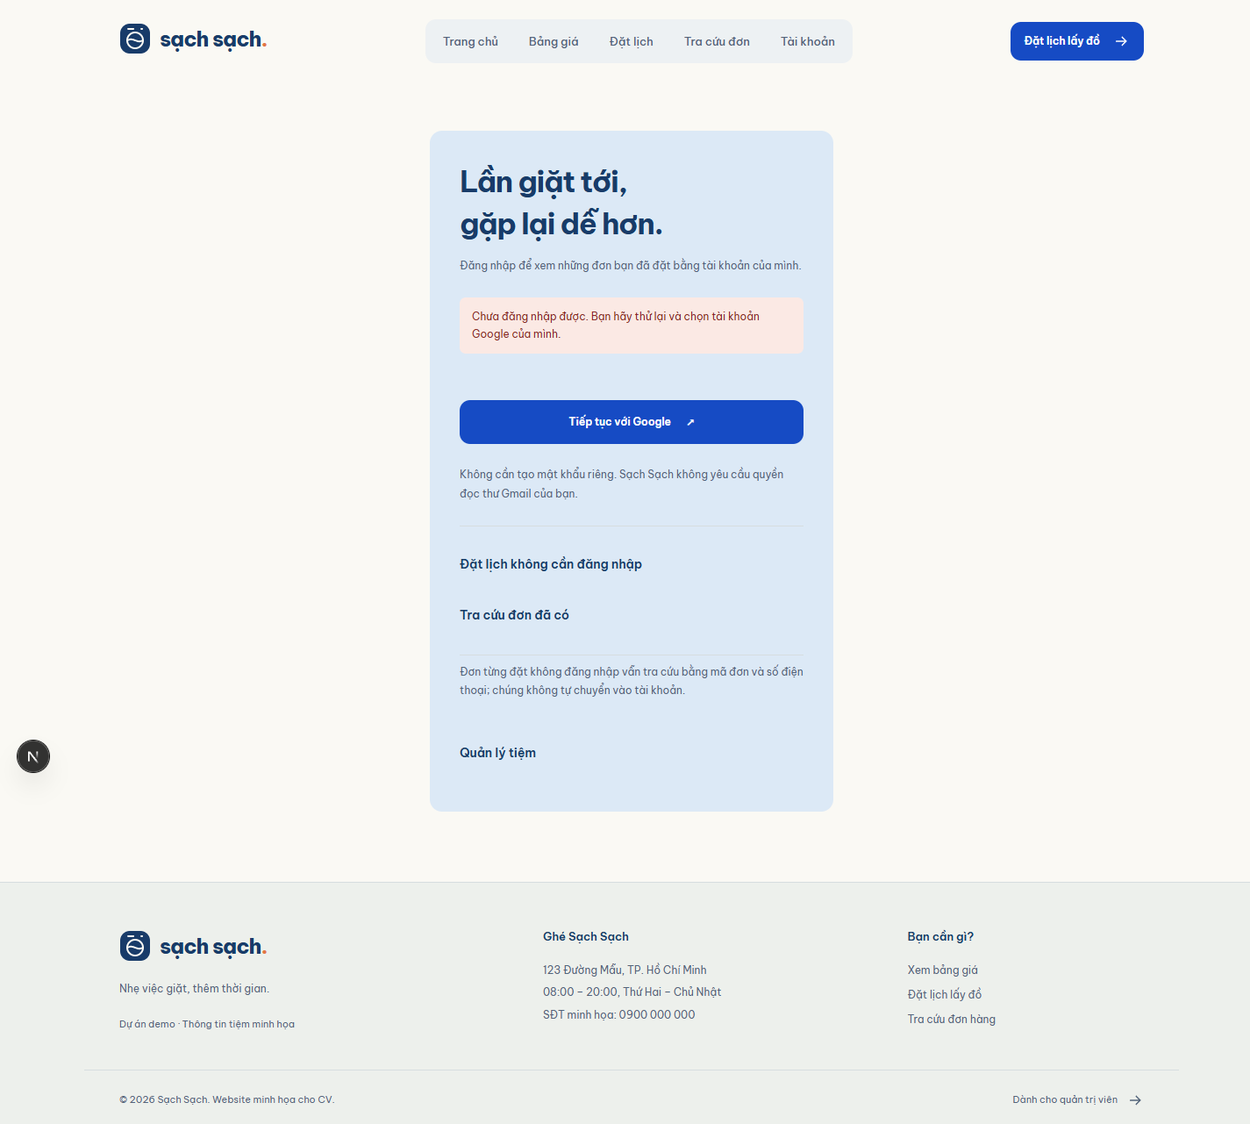
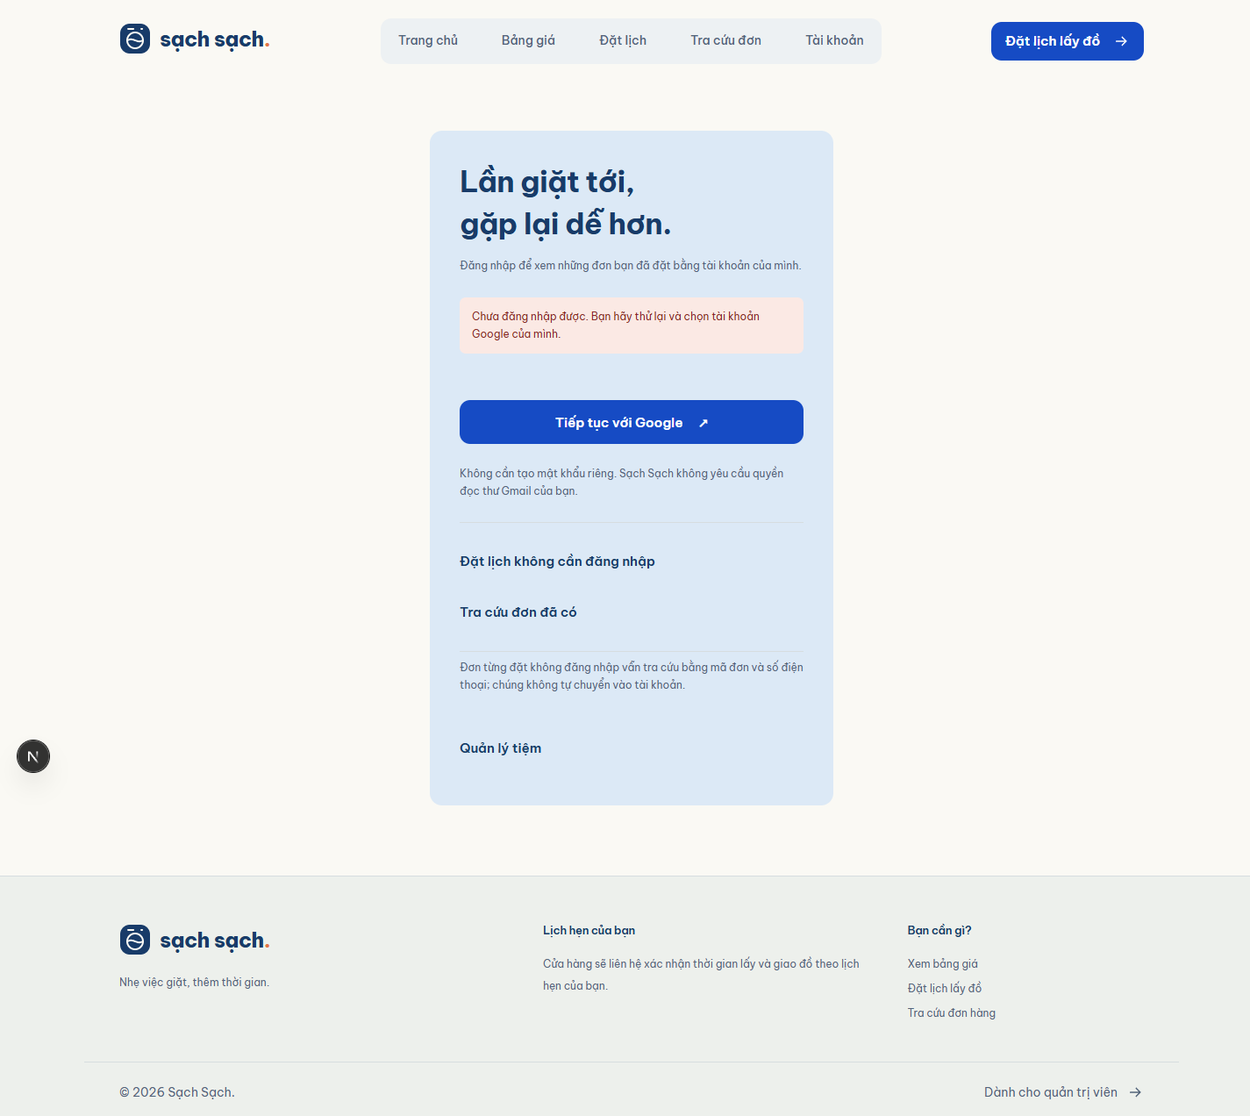
style: refine shop typography and customer-facing copy

diff --git a/components/demo-workspace.tsx b/components/demo-workspace.tsx
@@ -12,10 +12,10 @@ export function DemoWorkspace({data}:{data:DemoWorkspaceData}){
  const customerMessage=<label>Tin nhắn mô phỏng do khách gửi<textarea name="customer_message" minLength={5} maxLength={2000} required placeholder="Ghi nội dung bằng chứng mô phỏng; không dùng dữ liệu khách thật."/></label>;
  const targets=bags.flatMap(b=>[{id:b.id,label:b.tag_id,kind:'bag'},...b.items.map(i=>({id:i.id,label:i.tag_id,kind:'item'}))]);
  return <div className="demo-workspace">
-  <section className="demo-notice"><h2>Quy trình portfolio · mô phỏng</h2><p>Mọi đồng ý và số tiền ở đây là dữ liệu demo. Một nhãn cho mỗi túi; chỉ món giá trị cao/có vấn đề được gắn nhãn riêng. Không chứng minh được từng áo không gắn nhãn.</p><p>Phiên đơn {order.revision} · {data.eligible?'Báo giá hiện tại đã được đồng ý':'Cần đồng ý báo giá hiện tại'}</p></section>
+  <section className="demo-notice"><h2>Chi tiết xử lý đơn</h2><p>Các đồng ý và số tiền ở đây là dữ liệu mô phỏng. Một nhãn cho mỗi túi; chỉ món giá trị cao/có vấn đề được gắn nhãn riêng. Không chứng minh được từng áo không gắn nhãn.</p><p>Phiên đơn {order.revision} · {data.eligible?'Báo giá hiện tại đã được đồng ý':'Cần đồng ý báo giá hiện tại'}</p></section>
   <section><h2>Báo giá và cân thực tế</h2>
-   <div className="demo-scroll" tabIndex={0} role="region" aria-label="Lịch sử báo giá"><table><caption>Các phiên bản đã phát hành giữ nguyên nội dung.</caption><thead><tr><th>Phiên bản</th><th>Trạng thái</th><th>Đồng ý</th><th>Số tiền</th><th>Mức tối đa</th></tr></thead><tbody>{quotes.map(q=><tr key={q.id}><td>v{q.version}{q.id===order.active_quote_id?' · hiện tại':''}</td><td>{q.state}</td><td>{q.approvals.some(a=>a.verification_state==='verified'||a.verification_state==='declared')?'Đã ghi đồng ý':'Chờ đồng ý'}{q.approvals.some(a=>a.verification_state==='unverified')&&<strong className="demo-warning">Chưa xác minh: ghi chú điện thoại không mở quyền xử lý.</strong>}</td><td>{formatVND(q.base_total)}</td><td>{formatVND(q.max_weight_total)}</td></tr>)}</tbody></table></div>
-   <p className="field-help">Dung sai v0 được tính riêng từng dòng kg gốc: ±10% hoặc ±0,30 kg, lấy mức lớn hơn. v1 trở đi là số lượng chính xác, không cộng dồn dung sai.</p>
+   <div className="demo-scroll" tabIndex={0} role="region" aria-label="Lịch sử báo giá"><table><caption>Các phiên bản đã phát hành giữ nguyên nội dung.</caption><thead><tr><th>Phiên bản</th><th>Trạng thái</th><th>Đồng ý</th><th>Số tiền</th><th>Mức tối đa</th></tr></thead><tbody>{quotes.map(q=><tr key={q.id}><td>Lần {q.version + 1}{q.id===order.active_quote_id?' · hiện tại':''}</td><td>{q.state}</td><td>{q.approvals.some(a=>a.verification_state==='verified'||a.verification_state==='declared')?'Đã ghi đồng ý':'Chờ đồng ý'}{q.approvals.some(a=>a.verification_state==='unverified')&&<strong className="demo-warning">Chưa xác minh: ghi chú điện thoại không mở quyền xử lý.</strong>}</td><td>{formatVND(q.base_total)}</td><td>{formatVND(q.max_weight_total)}</td></tr>)}</tbody></table></div>
+   <p className="field-help">Dung sai của báo giá dự kiến được tính riêng từng dòng kg gốc: ±10% hoặc ±0,30 kg, lấy mức lớn hơn. Các báo giá điều chỉnh là số lượng chính xác, không cộng dồn dung sai.</p>
    {current&&order.status!=='pending'&&order.status!=='cancelled'&&<div className="demo-columns">
     <div><h3>Ghi nhận số lượng thực tế</h3><DemoActionForm {...props} action="measure" label="Lưu cân thực tế">{quantities()}</DemoActionForm></div>
     <details><summary>Phát hành báo giá thay thế hoặc bổ sung</summary><DemoActionForm {...props} action="issue_quote" label="Phát hành phiên bản mới">{quantities(true)}<div className="field-grid">{['delivery_fee','surcharge','discount'].map((field,n)=><label key={field}>{['Phí giao','Phụ thu','Giảm giá'][n]} (VND)<input type="number" name={field} defaultValue={0} min="0" step="1" required/></label>)}</div><p>Phiên bản mới làm mất hiệu lực xử lý của phiên cũ. Sau khi đã xử lý, đây là báo giá bổ sung do quản trị phát hành.</p></DemoActionForm></details>

diff --git a/components/demo-money.tsx b/components/demo-money.tsx
@@ -18,7 +18,7 @@ export function DemoMoney({data}:{data:DemoWorkspaceData}){
  <details><summary>Hoàn hoặc đảo bút toán mô phỏng</summary>{receipts.length>0&&<DemoActionForm {...props} action="refund" label="Ghi khoản hoàn mô phỏng">{amount}{method}<label>Khoản thu tham chiếu<select name="original_id">{receipts.map(e=><option value={e.id} key={e.id}>{e.id.slice(0,8)} · {formatVND(e.amount)}</option>)}</select></label><label>Lý do hoàn<input name="reason" minLength={5} required/></label></DemoActionForm>}{originals.length>0&&<DemoActionForm {...props} action="reverse" label="Đảo một bút toán gốc"><label>Bút toán cần đảo<select name="original_id">{originals.map(e=><option value={e.id} key={e.id}>{kind[e.kind]} · {e.id.slice(0,8)} · {formatVND(e.amount)}</option>)}</select></label><label>Lý do sửa sai<input name="reason" minLength={5} required/></label></DemoActionForm>}</details></div>}
  {order.status==='ready'&&order.qc_quote_id===order.active_quote_id&&order.work_quote_id===order.active_quote_id&&money.balance!==null&&money.balance>=0&&<div className="demo-handover"><h3>Bàn giao và thu tiền trong một lần lưu</h3><DemoActionForm {...props} action="deliver_collect" label="Giao đồ và thu tiền"><div className="demo-checks">{bags.map(b=><label key={b.id}><input type="checkbox" name="bag_id" value={b.id}/> Túi {b.tag_id}</label>)}{bags.flatMap(b=>b.items).map(i=><label key={i.id}><input type="checkbox" name="flagged_id" value={i.id}/> Món riêng {i.tag_id}</label>)}</div><label>Tiền mặt mô phỏng giữ lại (VND)<input type="number" name="amount" min="0" step="1" defaultValue={money.balance} required/></label><label>Bằng chứng người nhận · mô phỏng<textarea name="recipient_evidence" minLength={5} maxLength={2000} required placeholder="Ghi xác nhận nhận túi của người nhận giả lập."/></label><p>Chỉ hoàn tất khi đối chiếu đủ và số dư bằng 0. Mất kết nối thì chờ xác nhận hoặc thử lại cùng thao tác; không coi như đã giao.</p></DemoActionForm></div>}
  {order.status==='ready'&&money.status==='refund_due'&&<p role="status" className="demo-warning">Cần hoàn tiền thừa trước khi giao đồ.</p>}
- {['pending','picked_up'].includes(order.status)&&<details><summary>Hủy dịch vụ demo</summary><DemoActionForm {...props} action="cancel" label="Xác nhận hủy dịch vụ"><label>Lý do hủy<textarea name="reason" minLength={5} required/></label>{order.status==='picked_up'&&<label>Phương án trả túi đồ<textarea name="return_plan" minLength={5} required/></label>}<p>Hủy dịch vụ không tự tạo khoản hoàn và không đánh dấu túi đã trả.</p></DemoActionForm></details>}
+ {['pending','picked_up'].includes(order.status)&&<details><summary>Hủy dịch vụ</summary><DemoActionForm {...props} action="cancel" label="Xác nhận hủy dịch vụ"><label>Lý do hủy<textarea name="reason" minLength={5} required/></label>{order.status==='picked_up'&&<label>Phương án trả túi đồ<textarea name="return_plan" minLength={5} required/></label>}<p>Hủy dịch vụ không tự tạo khoản hoàn và không đánh dấu túi đã trả.</p></DemoActionForm></details>}
  {order.status==='cancelled'&&bags.some(b=>b.custody_state==='received')&&<p className="demo-warning">Dịch vụ đã hủy nhưng túi vẫn đang giữ. Cần xử lý riêng hồ sơ trả đồ; chưa có bàn giao được xác nhận.</p>}
  <p className="field-help">Số tiền theo thời điểm thu/hoàn khác giá trị đơn theo thời điểm giao. Toàn bộ là minh họa kế toán, không phải xác nhận thanh toán ngân hàng.</p>
  </section>;

diff --git a/components/booking-form.tsx b/components/booking-form.tsx
@@ -86,7 +86,7 @@ export function BookingForm({
       });
       const result = await response.json();
       if (!response.ok) {
-        setError(response.status === 409 ? "Nội dung đã thay đổi so với lần gửi trước. Hãy tải lại để đặt lịch mới." : response.status === 429 ? "Bản demo đã đạt giới hạn đặt lịch. Vui lòng thử lại sau." : "Chưa thể đặt lịch. Vui lòng kiểm tra thông tin rồi thử lại.");
+        setError(response.status === 409 ? "Nội dung đã thay đổi so với lần gửi trước. Hãy tải lại để đặt lịch mới." : response.status === 429 ? "Đã đạt giới hạn đặt lịch. Vui lòng thử lại sau." : "Chưa thể đặt lịch. Vui lòng kiểm tra thông tin rồi thử lại.");
         requestAnimationFrame(() => errorRef.current?.focus());
         return;
       }
@@ -338,8 +338,8 @@ export function BookingForm({
           Chi phí được xác nhận lại theo khối lượng thực tế trước khi xử lý.
         </p>
         <div className="consent-fields">
-          <p><strong>Chỉ dùng dữ liệu giả.</strong> Đơn, báo giá và thanh toán trong bản portfolio đều mô phỏng.</p>
-          <label><input type="checkbox" name="consent" required disabled={busy} /> Tôi đồng ý báo giá v0, chính sách portfolio-v1.2 và dữ liệu demo.</label>
+          <p>Đây là chi phí dự kiến. Cửa hàng xác nhận khối lượng và báo giá trước khi xử lý.</p>
+          <label><input type="checkbox" name="consent" required disabled={busy} /> Tôi đồng ý với báo giá dự kiến và việc cửa hàng liên hệ để xác nhận lịch hẹn.</label>
           <label><input type="checkbox" name="tolerance_consent" checked={toleranceConsent} onChange={e => setToleranceConsent(e.target.checked)} disabled={busy} /> Cho phép cân thực tế trong ±10% hoặc ±0,30 kg, lấy mức lớn hơn cho từng dòng kg gốc.</label>
           <p aria-live="polite">Mức tối đa được đồng ý: <strong>{formatVND(maximum)}</strong>. Không chọn dung sai: mọi thay đổi cân nặng cần báo giá mới.</p>
         </div>

diff --git a/components/demo-financial-report.tsx b/components/demo-financial-report.tsx
@@ -1,5 +1,5 @@
 import {formatVND} from '@/lib/format';
 export type DemoReport={cash_flow:{day:string;amount:number}[];delivered_value:{day:string;amount:number}[];unverified_approvals:number};
 export function DemoFinancialReport({report}:{report:DemoReport}){
- return <section className="demo-notice demo-report"><h2>Báo cáo demo · hai thời điểm khác nhau</h2><p>Tất cả số tiền đều mô phỏng. Ghi chú đồng ý chưa xác minh: <strong>{report.unverified_approvals}</strong>.</p><div className="demo-columns"><div><h3>Thu / hoàn theo ngày phát sinh</h3>{report.cash_flow.length?<ul className="demo-inventory">{report.cash_flow.map(r=><li key={r.day}>{r.day} · {formatVND(r.amount)}</li>)}</ul>:<p>Chưa có tiền mô phỏng.</p>}</div><div><h3>Giá trị đơn theo ngày bàn giao</h3>{report.delivered_value.length?<ul className="demo-inventory">{report.delivered_value.map(r=><li key={r.day}>{r.day} · {formatVND(r.amount)}</li>)}</ul>:<p>Chưa có bàn giao.</p>}</div></div></section>;
+ return <section className="demo-notice demo-report"><h2>Thu chi và giá trị đơn</h2><p>Tất cả số tiền đều mô phỏng. Ghi chú đồng ý chưa xác minh: <strong>{report.unverified_approvals}</strong>.</p><div className="demo-columns"><div><h3>Thu / hoàn theo ngày phát sinh</h3>{report.cash_flow.length?<ul className="demo-inventory">{report.cash_flow.map(r=><li key={r.day}>{r.day} · {formatVND(r.amount)}</li>)}</ul>:<p>Chưa có tiền mô phỏng.</p>}</div><div><h3>Giá trị đơn theo ngày bàn giao</h3>{report.delivered_value.length?<ul className="demo-inventory">{report.delivered_value.map(r=><li key={r.day}>{r.day} · {formatVND(r.amount)}</li>)}</ul>:<p>Chưa có bàn giao.</p>}</div></div></section>;
 }

diff --git a/app/layout.tsx b/app/layout.tsx
@@ -21,7 +21,7 @@ export const metadata: Metadata = {
     template: "%s | Sạch Sạch",
   },
   description:
-    "Demo dịch vụ giặt sấy, giặt giày, mền chăn, ủi đồ, sửa đồ và giặt gấu bông. Đặt lịch lấy đồ không cần tài khoản.",
+    "Dịch vụ giặt sấy, giặt giày, mền chăn, ủi đồ, sửa đồ và giặt gấu bông. Đặt lịch lấy đồ và theo dõi đơn cùng Sạch Sạch.",
 };
 export default function RootLayout({
   children,
@@ -43,18 +43,11 @@ export default function RootLayout({
                 <Brand />
               </Link>
               <p>Nhẹ việc giặt, thêm thời gian.</p>
-              <span className="demo-label">
-                Dự án demo · Thông tin tiệm minh họa
-              </span>
             </div>
             <div>
-              <h3>Ghé Sạch Sạch</h3>
+              <h3>Lịch hẹn của bạn</h3>
               <p>
-                123 Đường Mẫu, TP. Hồ Chí Minh
-                <br />
-                08:00 – 20:00, Thứ Hai – Chủ Nhật
-                <br />
-                SĐT minh họa: 0900 000 000
+                Cửa hàng sẽ liên hệ xác nhận thời gian lấy và giao đồ theo lịch hẹn của bạn.
               </p>
             </div>
             <div>
@@ -65,7 +58,7 @@ export default function RootLayout({
             </div>
           </div>
           <div className="container footer-bottom">
-            <span>© 2026 Sạch Sạch. Website minh họa cho CV.</span>
+            <span>© 2026 Sạch Sạch.</span>
             <Link href="/admin">
               Dành cho quản trị viên <Arrow />
             </Link>

diff --git a/components/bank-transfer.tsx b/components/bank-transfer.tsx
@@ -6,7 +6,7 @@ import { formatVND } from "@/lib/format";
 
 // Public receiving details supplied by the user with the QR image.
 const account = "38606688";
-const recipient = "CONG TY TNHH THUONG MAI DICH VU VAN TAI AN LINH";
+const recipient = "Nguyễn Thị Mai";
 const qr = "/payments/techcombank-qr.png";
 
 export function BankTransfer({ amount, orderCode }: { amount: number; orderCode?: string }) {
@@ -29,7 +29,7 @@ export function BankTransfer({ amount, orderCode }: { amount: number; orderCode?
         <h3 id={heading}>Chuyển khoản Techcombank</h3>
         <span>Đối soát thủ công</span>
       </header>
-      <p className="bank-transfer-demo">Bản portfolio đang mô phỏng — không chuyển tiền thật.</p>
+      <p className="bank-transfer-demo">Chỉ thanh toán sau khi cửa hàng xác nhận báo giá và tài khoản nhận.</p>
       <div className="bank-transfer-layout">
         <div className="bank-transfer-image">
           <div className="bank-transfer-qr-frame">
@@ -39,7 +39,7 @@ export function BankTransfer({ amount, orderCode }: { amount: number; orderCode?
         </div>
         <div className="bank-transfer-info">
           <dl>
-            <div><dt>Người nhận theo QR</dt><dd className="bank-transfer-recipient">{recipient}</dd></div>
+            <div><dt>Tên người nhận</dt><dd className="bank-transfer-recipient">{recipient}</dd></div>
             <div><dt>Số tài khoản</dt><dd className="bank-transfer-account">{account}</dd></div>
           </dl>
           <button className="bank-transfer-copy" type="button" data-copy="account" onClick={() => copy(account, "số tài khoản")}>Sao chép số tài khoản</button>

diff --git a/app/api/orders/route.ts b/app/api/orders/route.ts
@@ -3,13 +3,13 @@ const uuid = /^[0-9a-f]{8}-[0-9a-f]{4}-[1-5][0-9a-f]{3}-[89ab][0-9a-f]{3}-[0-9a-
 const messages: Record<string, [number, string]> = {
   IDEMPOTENCY_CONFLICT: [409, "Lần gửi này khác nội dung đã lưu. Hãy tải lại để đặt lịch mới."],
   OPERATION_EXPIRED: [409, "Phiên đặt lịch đã hết hạn. Hãy tải lại trang."],
-  ORDER_RATE_LIMIT: [429, "Số điện thoại demo đã đạt ba đơn trong một giờ. Vui lòng thử lại sau."],
-  ORDER_PENDING_LIMIT: [429, "Số điện thoại demo có quá nhiều đơn đang chờ."],
-  DEMO_CAPACITY: [429, "Bản demo đã đủ đơn mẫu. Vui lòng thử lại sau."],
+  ORDER_RATE_LIMIT: [429, "Số điện thoại đã đạt ba đơn trong một giờ. Vui lòng thử lại sau."],
+  ORDER_PENDING_LIMIT: [429, "Số điện thoại có quá nhiều đơn đang chờ."],
+  DEMO_CAPACITY: [429, "Hiện chưa thể nhận thêm lịch hẹn. Vui lòng thử lại sau."],
   PICKUP_NOT_FUTURE: [400, "Vui lòng chọn thời gian lấy đồ trong tương lai."],
   PICKUP_TOO_FAR: [400, "Vui lòng chọn lịch trong 90 ngày tới."],
   INVALID_PICKUP: [400, "Thời gian lấy đồ không hợp lệ."],
-  INVALID_ORDER: [400, "Vui lòng kiểm tra thông tin và xác nhận báo giá demo."],
+  INVALID_ORDER: [400, "Vui lòng kiểm tra thông tin và xác nhận báo giá."],
   INVALID_QUANTITY: [400, "Dịch vụ hoặc số lượng không hợp lệ."],
   SERVICE_UNAVAILABLE: [400, "Dịch vụ đã thay đổi. Hãy tải lại bảng giá."],
 };

diff --git a/app/home.css b/app/home.css
@@ -47,7 +47,7 @@
   color: #c4d7e2;
   font-size: 100px;
   font-weight: 800;
-  letter-spacing: -0.04em;
+  letter-spacing: -0.025em;
   transform: rotate(-9deg);
   z-index: -1;
   user-select: none;
@@ -892,4 +892,33 @@ textarea {
   .dial-marker {
     transition-duration: 0.01ms;
   }
+}
+
+/* Shared reading scale: Vietnamese accents, clear labels and steady numerals. */
+h1, h2, h3 { letter-spacing: -0.02em; }
+.hero h1 { letter-spacing: -0.025em; line-height: 1.32; }
+.hero h1 span { font-weight: inherit; }
+.brand { letter-spacing: -0.025em; }
+.navigation a, .header-cta, .hero-note, .scroll-invitation,
+.field-help, .summary-note, .field-grid label, .consent-fields,
+.price-row span, .pricing-title p, .booking-service-name span,
+.footer-bottom, footer p, footer a, .bank-transfer-note {
+  font-size: 0.875rem;
+  line-height: 1.65;
+}
+.button, .text-link { font-size: 0.9375rem; }
+input, textarea, select { font-size: 1rem; line-height: 1.5; }
+.hero-copy > p, .section-heading p, .service-card p,
+.process-grid p, .closing p, .page-heading p {
+  font-size: 1rem;
+  line-height: 1.75;
+}
+.hero-copy > p, .page-heading p, .section-heading p { max-width: 65ch; }
+.booking-service-name strong, .price-row h3 { font-size: 1rem; font-weight: 600; }
+.summary-total strong, .price-row strong, .service-price strong,
+.bank-transfer-account, .bank-transfer-amount, .demo-scroll {
+  font-variant-numeric: tabular-nums;
+}
+@media (min-width: 901px) {
+  .navigation { gap: 20px; }
 }

diff --git a/app/admin/orders/[id]/page.tsx b/app/admin/orders/[id]/page.tsx
@@ -36,10 +36,10 @@ export default async function AdminOrder({
   if (data.is_synthetic) {
     const auth = await authClient();
     const result = await auth.rpc("demo_order_detail", {p_order:id});
-    if (result.error || !result.data?.order) throw new Error("Chưa tải được quy trình demo. Hãy thử lại.");
+    if (result.error || !result.data?.order) throw new Error("Chưa tải được quy trình xử lý. Hãy thử lại.");
     workspace = result.data as DemoWorkspaceData;
     const payment = await auth.rpc("demo_payment_summary",{p_order:id});
-    if(payment.error || !payment.data) throw new Error("Chưa tải được sổ tiền demo.");
+    if(payment.error || !payment.data) throw new Error("Chưa tải được sổ tiền.");
     workspace.money = payment.data;
   }
   return (
@@ -52,7 +52,7 @@ export default async function AdminOrder({
         Liên hệ khách:{" "}
         <a href={`tel:${order.customer_phone}`}>{order.customer_phone}</a>
       </p>
-      {workspace ? <DemoWorkspace data={workspace}/> : <p className="demo-notice">Đơn cũ chỉ đọc và cần xem xét lại; chưa có bằng chứng đồng ý hoặc thanh toán theo quy trình demo.</p>}
+      {workspace ? <DemoWorkspace data={workspace}/> : <p className="demo-notice">Đơn cũ chỉ đọc và cần xem xét lại; chưa có bằng chứng đồng ý hoặc thanh toán theo quy trình xử lý.</p>}
     </div>
   );
 }

diff --git a/app/admin/demo-actions.ts b/app/admin/demo-actions.ts
@@ -55,5 +55,5 @@ export async function performDemoAction(_state:DemoActionState,form:FormData):Pr
   }
  }catch{console.error(JSON.stringify({event:'demo_rpc_failed',rpc:'order_command',code:'TRANSPORT',operation_key:key,action}));return {error:"Mất kết nối. Giữ nguyên thao tác và thử lại; không đánh dấu hoàn tất khi chưa có xác nhận."};}
  revalidatePath('/admin');revalidatePath('/admin/orders/'+order);
- return {error:'',success:'Đã lưu thao tác demo.'};
+ return {error:'',success:'Đã lưu thao tác.'};
 }

diff --git a/app/globals.css b/app/globals.css
@@ -32,7 +32,7 @@ body {
   background: var(--paper);
   color: var(--ink);
   font-family: "Be Vietnam Pro", sans-serif;
-  font-size: 15px;
+  font-size: 16px;
   line-height: 1.7;
   -webkit-font-smoothing: antialiased;
 }
@@ -91,14 +91,14 @@ h3 {
 }
 h1 {
   font-weight: 700;
-  letter-spacing: -0.04em;
+  letter-spacing: -0.025em;
   line-height: 1.2;
 }
 h2 {
   font-size: 34px;
   font-weight: 600;
   line-height: 1.4;
-  letter-spacing: -0.035em;
+  letter-spacing: -0.02em;
 }
 h3 {
   font-size: 18px;

diff --git a/docs/verification/shop-polish/README.md b/docs/verification/shop-polish/README.md
@@ -1,0 +1,14 @@
+# Shop typography and copy — 2026-10-24
+
+- Preserve Be Vietnam Pro and the existing layout/washer. Shared body 16px, labels/supporting text 14px, actions 15px, form controls 16px; looser heading tracking and consistent emphasis.
+- Remove visible portfolio/demo/app-version labels from public copy, API recovery messages and admin project headings. Quote history retains its immutable sequence, shown as numbered revisions rather than vN.
+- Remove invented footer contact details. Keep real operational limits explicit: transfer confirmation is manual; the existing admin money/evidence workflow remains simulated and has not been converted to real payment processing.
+- Owner explicitly reconfirmed Techcombank account 38606688 and requested recipient Nguyễn Thị Mai. Existing source QR bytes/provenance unchanged; the existing CSS crop shows the QR card. Original downloadable image retains its original printed account caption. This is owner-supplied display information, not independent bank verification.
+- No migrations, dependencies, hosted SQL writes or payment activation in this change. Google sign-in on the previous Preview was confirmed working by the owner after correcting OAuth credentials.
+
+Validation: npm run check:phase -- S01: lint/typecheck/build/client scan exit 0; 52/52 tests, 0 failed/skipped, including authorization matrix 170/170 (+20 unknown/null checks) and hosted-defaults checks. Logs: ../continuous/S01. SHOP_COPY is included in the npm test and npm run test:customer gates. QR_BANK_BOOKING now checks the durable manual-confirmation boundary instead of the retired public project disclaimer; ledger-zero assertions remain.
+
+Rendered review: browser.json covers home, booking and login at 390/1440px, 6/6. Screenshots were inspected together; no overflow or clipped Vietnamese accents. The QR card and explicit recipient are readable; cash/transfer state and Google entry are unchanged. Mechanical scan returned advisory-only legacy token drift (see detector-summary.json); it is not claimed clean.
+
+Deployment: push the feature branch, verify Preview and CI, then fast-forward master under the owner's explicit request. No production customer orders are created by smoke checks. Real Google login was manually verified by the owner before this cosmetic update.
+
